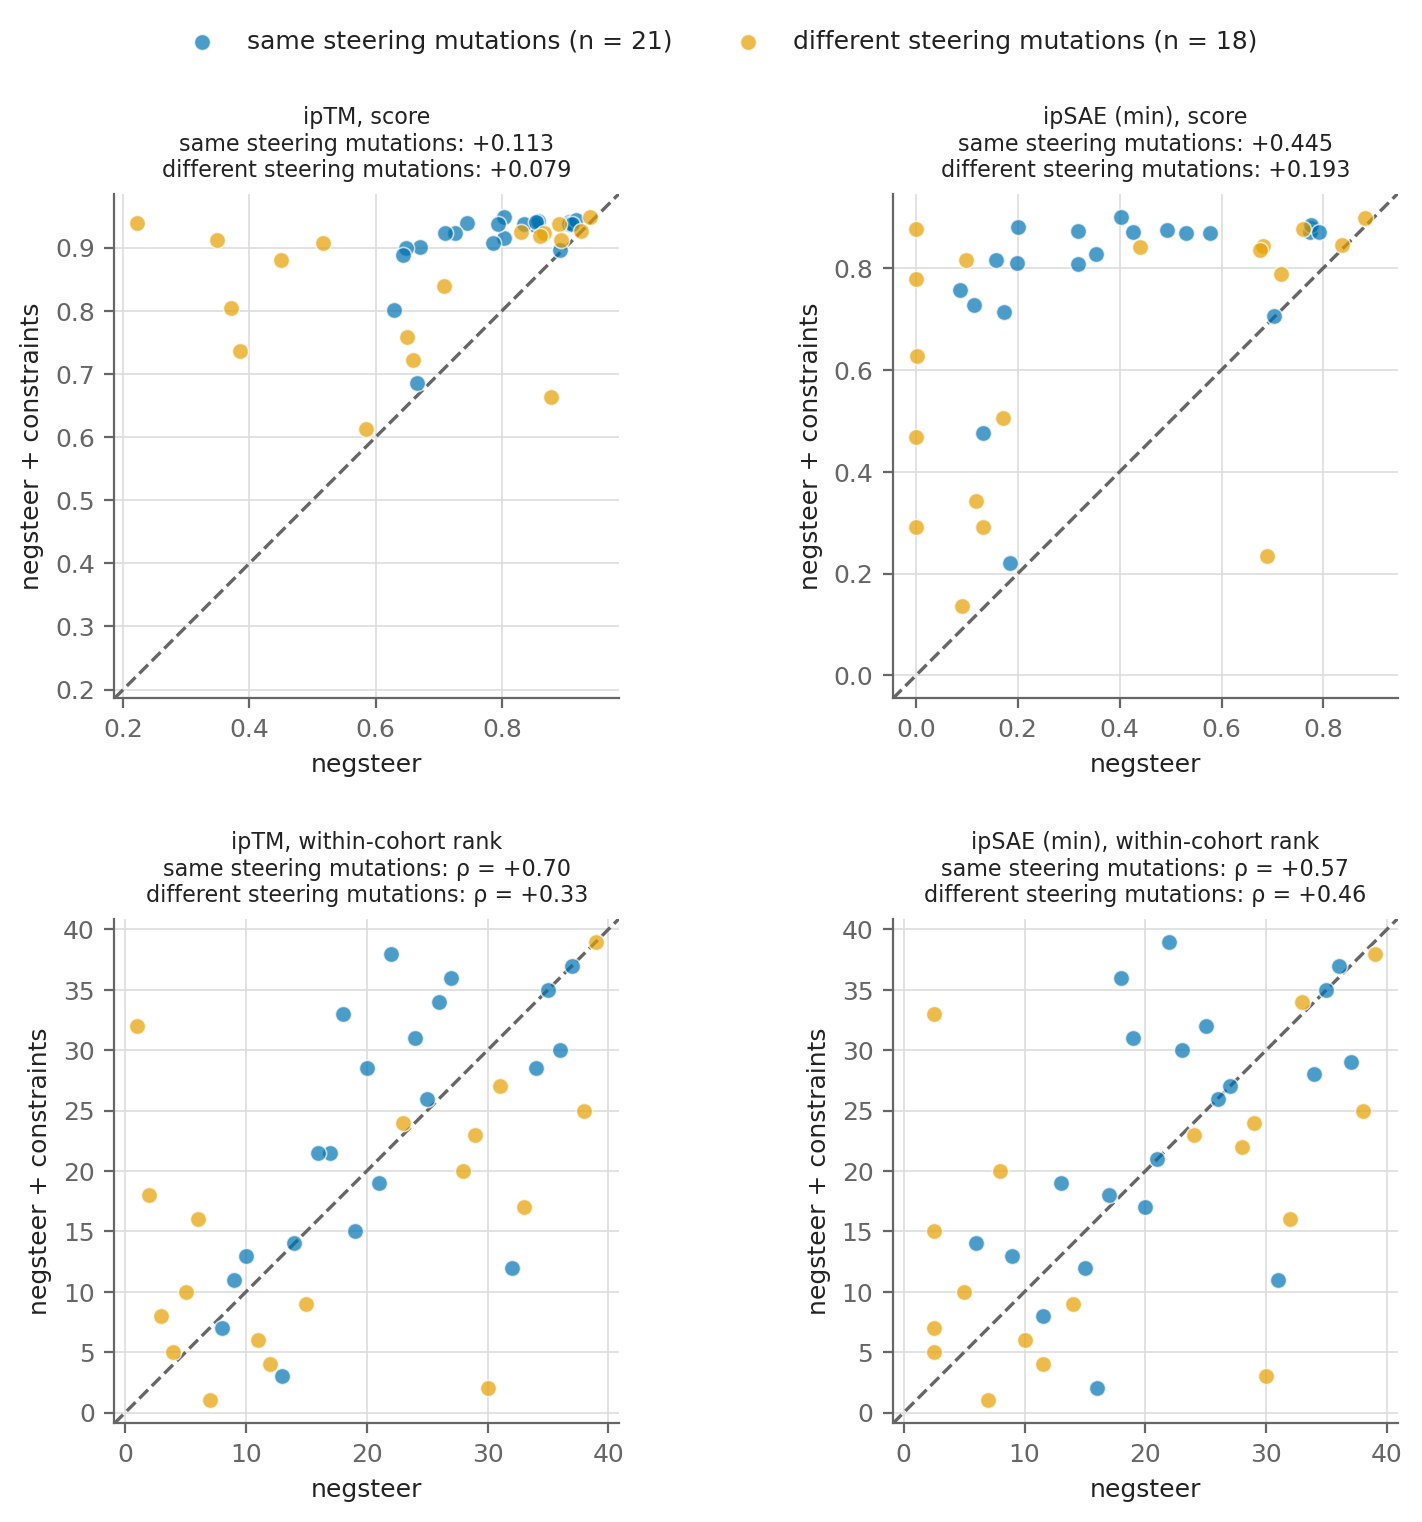
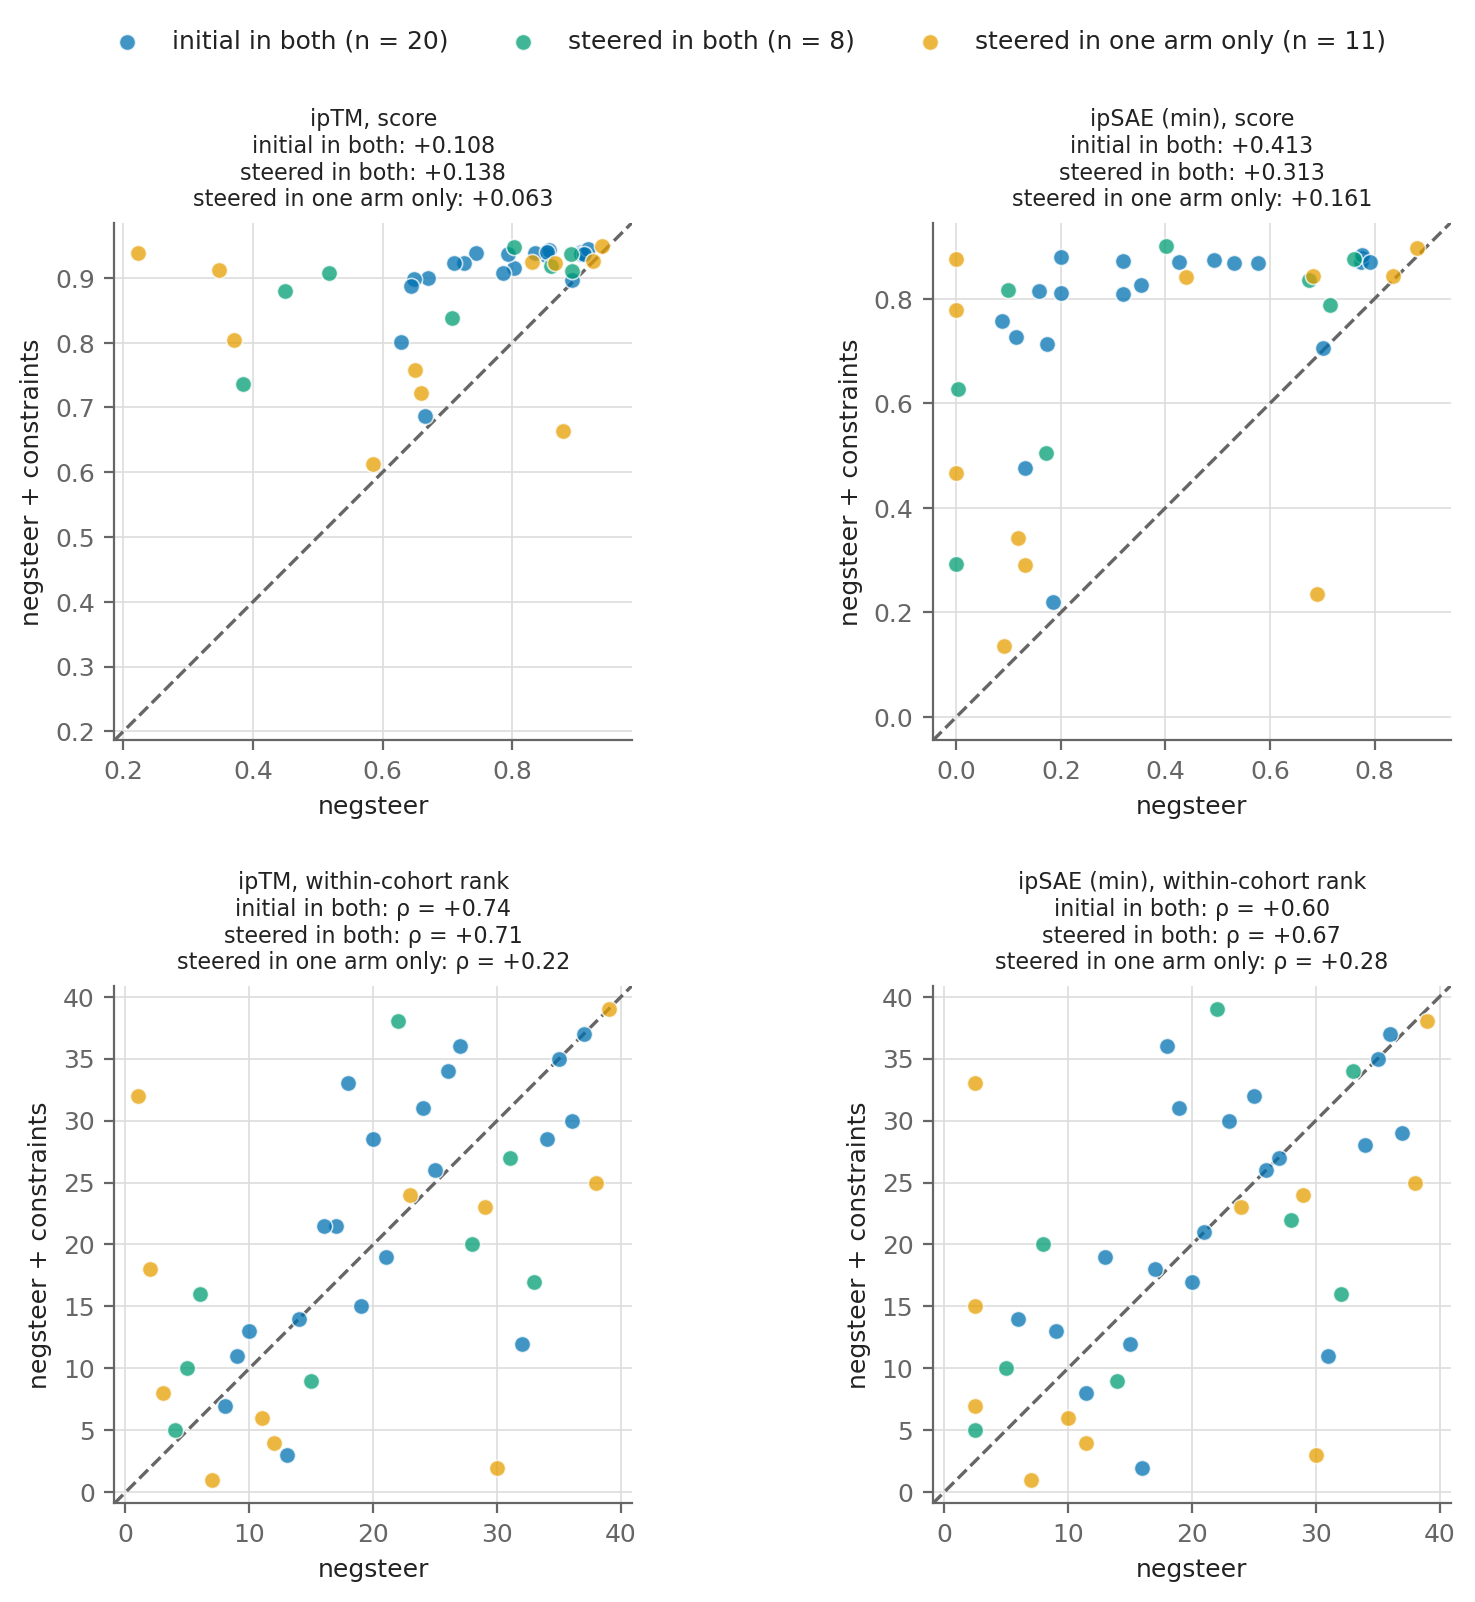
Split the constraint figure by what each arm did, not by mutation identity
"same steering mutations" was a bad label. An unsteered unit has an empty
mutation set, so 20 of its 21 units were cold starts in both arms and carried
no steering mutations at all, and the one genuinely steered pair was buried
among them. It also pooled the two clean cases, which hid the fact that they
agree.

arm_groups splits on what each arm actually predicted: initial in both,
steered in both, or steered in one arm only. The first two hold the sequence
fixed across the axes, the third does not.

The two clean groups agree with each other and both differ from the mixed one
(ipTM +0.108 and +0.138 against +0.063; rho +0.74 and +0.71 against +0.22), so
neither the inflation nor the reordering depends on steering having happened.
sequence_match.csv stays, now as the crosstab showing that only 1 of the 8
steered-in-both units is also a true mutation-set match.

diff --git a/analysis/04-confidence-cost/confidence_common.py b/analysis/04-confidence-cost/confidence_common.py
@@ -841,46 +841,65 @@ def fig_reversion_representative(groups: dict, outpath, figsize=(7.0, 4.2)):
 RANK_METRICS = ["iptm", "ipsae_min"]
 
 
-SEQ_MATCH_COLOR = {True: "#0072B2", False: "#E69F00"}
-SEQ_MATCH_LABEL = {True: "same steering mutations",
-                   False: "different steering mutations"}
+# What each arm actually predicted for a unit, which decides whether its two
+# points describe the same molecule. Ordered clean cases first.
+ARM_GROUPS = ["initial in both", "steered in both", "steered in one arm only"]
+ARM_GROUP_COLOR = {"initial in both": "#0072B2",
+                   "steered in both": "#009E73",
+                   "steered in one arm only": "#E69F00"}
 
 
-def fig_constraint_level_and_rank(unconstrained, constrained, matched, outpath,
-                                  metrics=RANK_METRICS, size=34, figsize=(8.0, 7.6)):
+def arm_groups(unconstrained, constrained) -> pd.Series:
+    """Unit -> which of ARM_GROUPS it falls in.
+
+    Constraints change the cold start, so a unit can steer in one arm and
+    short-circuit in the other. Those units carry a sequence difference on top
+    of the constraint difference and cannot be read as a constraint effect. The
+    two same-in-both groups can, and they are kept apart rather than pooled so
+    that steering is not assumed to be irrelevant before it has been shown.
+    """
+    a = unconstrained.steering_skipped.astype(bool)
+    b = constrained.reindex(unconstrained.index).steering_skipped.astype(bool)
+    return pd.Series(np.select([a & b, ~a & ~b],
+                               ARM_GROUPS[:2], default=ARM_GROUPS[2]),
+                     index=unconstrained.index)
+
+
+def fig_constraint_level_and_rank(unconstrained, constrained, groups, outpath,
+                                  metrics=RANK_METRICS, size=34, figsize=(8.4, 8.0)):
     """What constraints do to an interface metric's level, and to its order.
 
-    One cohort, split by whether the unit's representative design carries the
-    same steering mutations in both arms. Where it does, the sequence is
-    identical on the two axes and the whole displacement is the constraints;
-    where it does not, a sequence change is confounded with them.
+    One cohort, split by what each arm did to the unit. Where both arms took
+    the same route the sequence is identical on the two axes and the whole
+    displacement is the constraints; where they diverged it is not.
 
     The rows answer different questions and both are needed. Inflating every
     score does not on its own stop a metric ranking designs, which needs only
     the order to survive, so the level row is read against the rank row beneath
     it. Ranks are within cohort and computed over all plotted units, not within
-    each match group, since the ranking a campaign would actually use is over
-    the whole cohort.
+    each group, since the ranking a campaign would actually use is over the
+    whole cohort.
 
-    `matched` is a boolean Series indexed by unit.
+    `groups` is a Series of ARM_GROUPS values indexed by unit.
     """
     fig, axes = plt.subplots(2, len(metrics), figsize=figsize)
-    groups = [(f, matched.index[matched == f]) for f in (True, False)]
+    present = [(g, groups.index[groups == g]) for g in ARM_GROUPS
+               if (groups == g).any()]
     for col, m in enumerate(metrics):
-        x_raw = unconstrained.loc[matched.index, f"rep_{m}"].astype(float)
-        y_raw = constrained.loc[matched.index, f"rep_{m}"].astype(float)
+        x_raw = unconstrained.loc[groups.index, f"rep_{m}"].astype(float)
+        y_raw = constrained.loc[groups.index, f"rep_{m}"].astype(float)
         rows = (("score", x_raw, y_raw, lambda d, _m=m: FMT[_m].format(np.median(d))),
                 ("within-cohort rank", x_raw.rank(), y_raw.rank(), None))
         for row, (kind, x, y, fmt) in enumerate(rows):
             ax = axes[row, col]
             titles = []
-            for flag, idx in groups:
-                ax.scatter(x[idx], y[idx], s=size, color=SEQ_MATCH_COLOR[flag],
-                           alpha=0.7, zorder=3, edgecolor="white", linewidth=0.6,
-                           label=f"{SEQ_MATCH_LABEL[flag]} (n = {len(idx)})")
+            for g, idx in present:
+                ax.scatter(x[idx], y[idx], s=size, color=ARM_GROUP_COLOR[g],
+                           alpha=0.75, zorder=3, edgecolor="white", linewidth=0.6,
+                           label=f"{g} (n = {len(idx)})")
                 stat = (fmt((y - x)[idx]) if fmt
                         else f"ρ = {spearman(x[idx], y[idx]):+.2f}")
-                titles.append(f"{SEQ_MATCH_LABEL[flag]}: {stat}")
+                titles.append(f"{g}: {stat}")
             lims = [v for v in np.concatenate([x.values, y.values]) if np.isfinite(v)]
             lo, hi = min(lims), max(lims)
             pad = 0.05 * (hi - lo)
